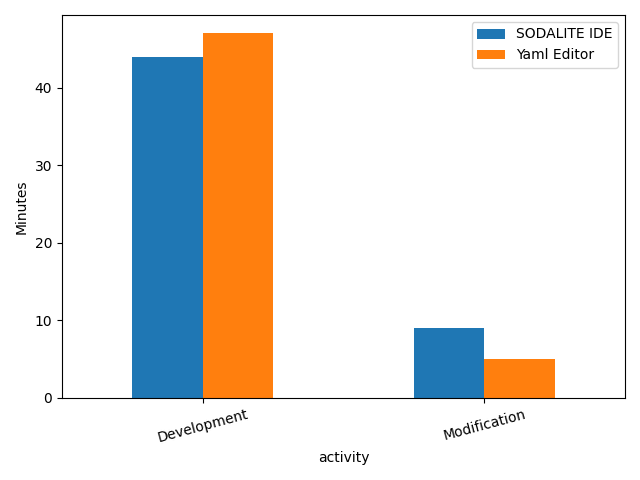
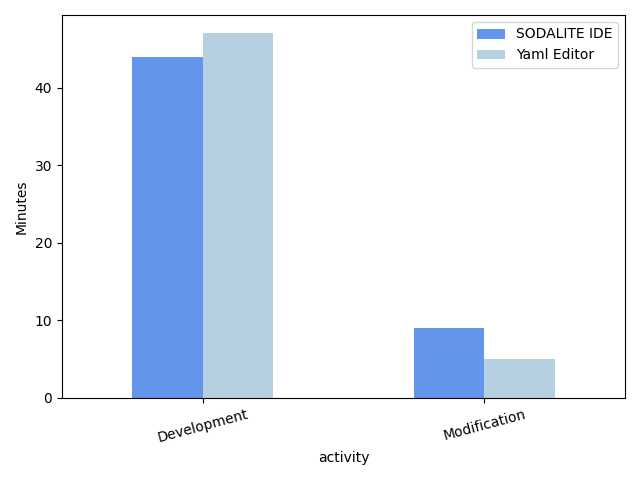
change names

Changed region(s): [[0.1875, 0.0625, 0.4375, 0.8438], [0.625, 0.6562, 0.875, 0.8438], [0.75, 0.0625, 0.8125, 0.125]]

diff --git a/boxes.py b/boxes.py
@@ -3,12 +3,15 @@ import matplotlib.pyplot as plt
 import pandas as pd
 import seaborn as sns
 
+color = ['#6495ED', '#B6D0E2']
+sns.set_palette(color)
+
 fields = ['Editor', 'Perceived Usefulness']
 df_perf = pd.read_csv('perceived_usefulness_it1_nonexperts.CSV', index_col=False)
 plt.rcParams["figure.figsize"] = (8, 4)
 plt.rcParams["xtick.labelsize"] = 7
-sns_plot = sns.boxplot(y=df_perf["Perceived Usefulness"], x=df_perf["Editor"] )
+sns_plot = sns.boxplot(y=df_perf["Perceived Usefulness"], x=df_perf["Editor"])
 sns_plot.set_xticklabels(sns_plot.get_xticklabels(), rotation=40, ha="right")
 plt.tight_layout()
 fig = sns_plot.get_figure()
-fig.savefig("test.png", dpi=600)
+fig.savefig("usefulness_non_experts.png", dpi=600)

diff --git a/bar.py b/bar.py
@@ -4,7 +4,7 @@ import pandas as pd
 
 
 df = pd.read_csv("./Development_Modification.CSV")
-ax = df.plot.bar(x='activity')
+ax = df.plot.bar(x='activity', color=['#6495ED', '#B6D0E2'])
 ax.set_ylabel('Minutes')
 
 activities = ['Development', 'Modification']
